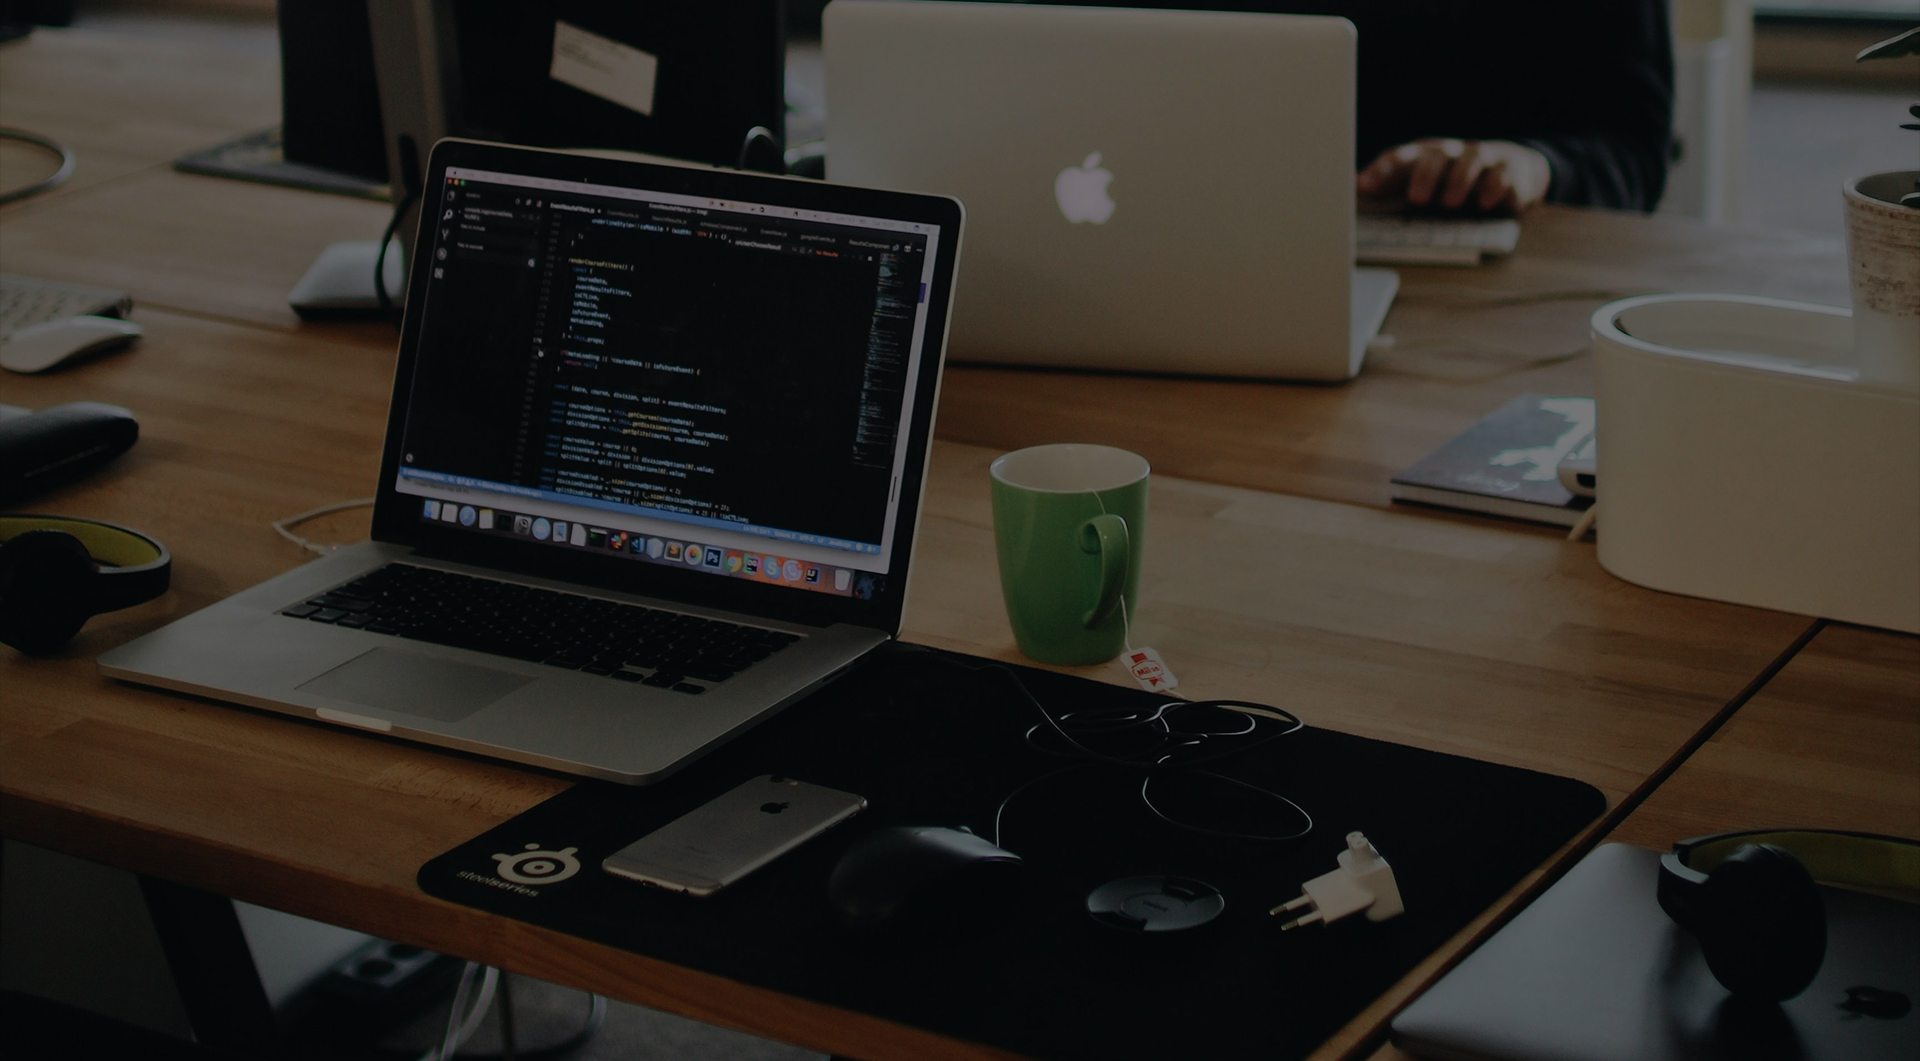
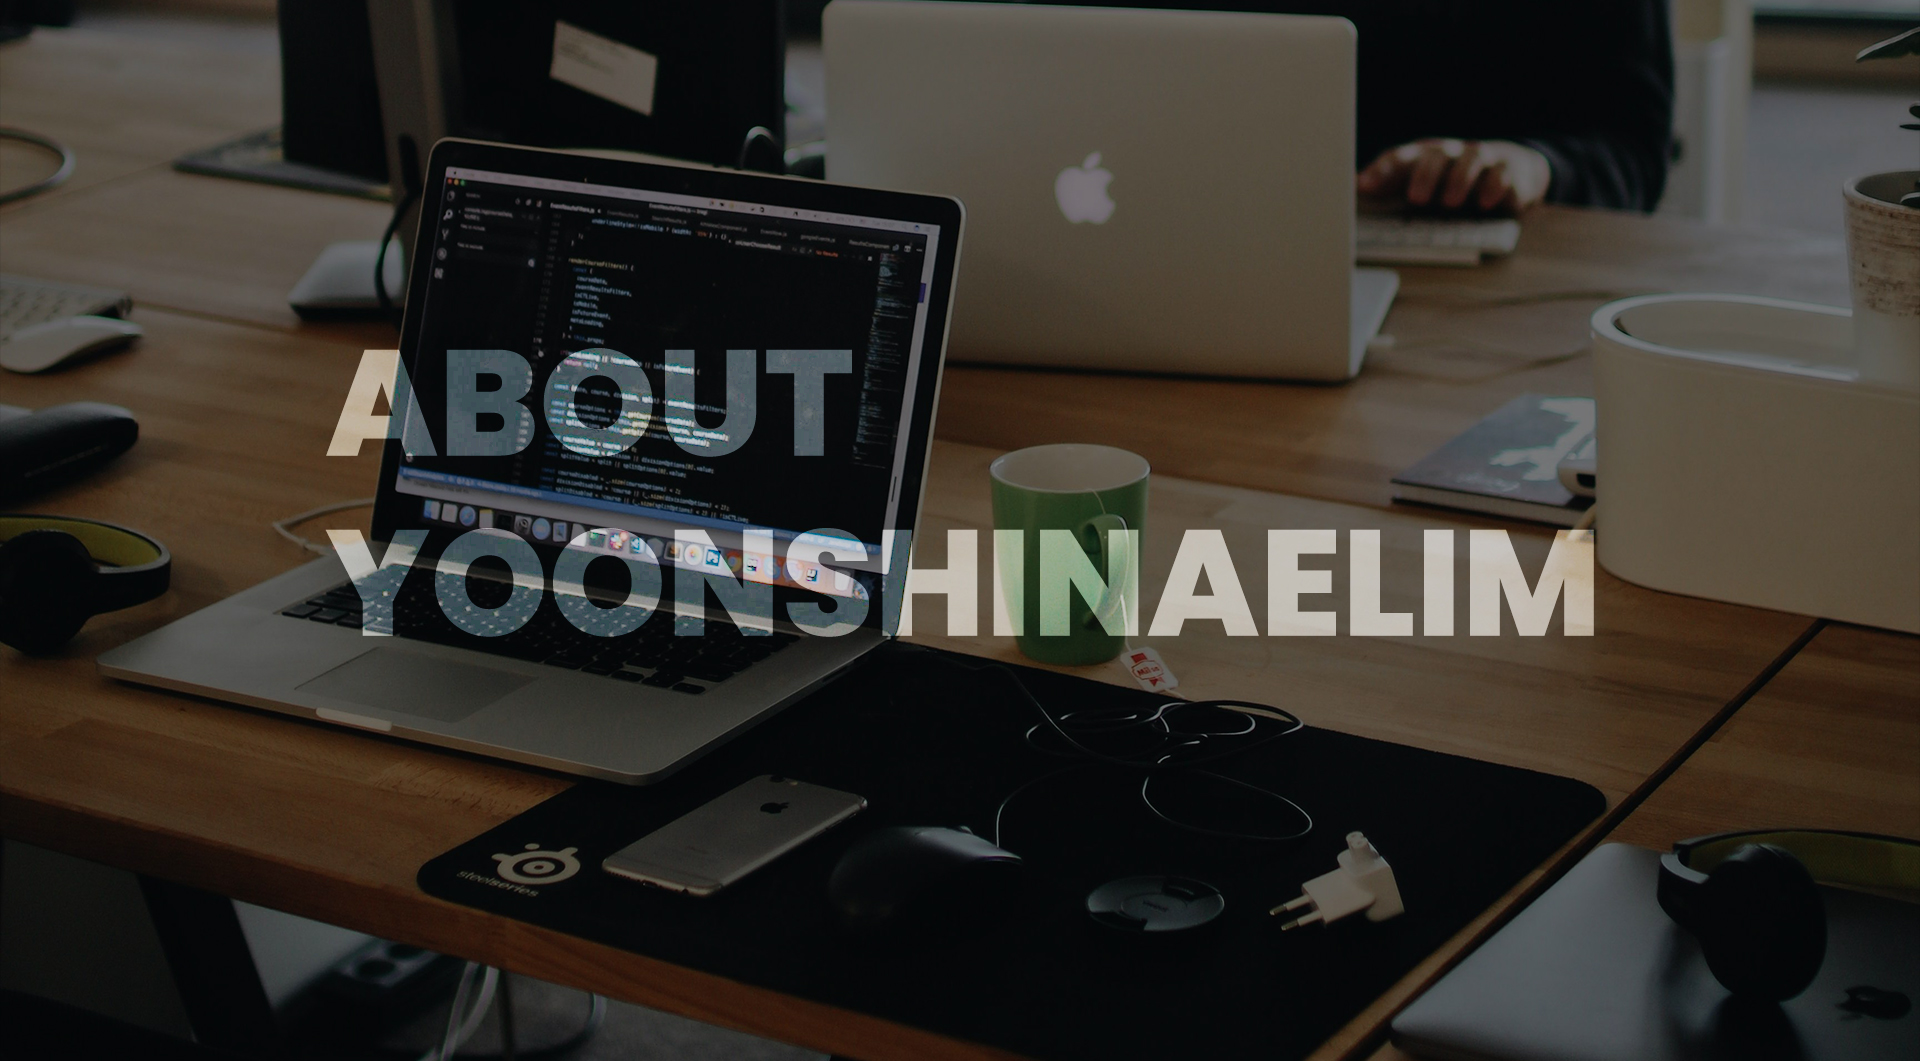
수정

Changed region(s): [[0.1562, 0.4976, 0.8438, 0.6221], [0.1562, 0.311, 0.4375, 0.4354]]

diff --git a/js/common.js b/js/common.js
@@ -1,29 +1,50 @@
-const body = document.querySelector("#body"),
-menuButton = document.querySelector("#menu"),
-menuList = document.querySelector("#menuList"),
-header = document.querySelector("#header");
+if (document.querySelector("#wrap").classList.contains("main")) {
+    const body = document.querySelector("#body"),
+    menuButton = document.querySelector("#menu"),
+    menuList = document.querySelector("#menuList"),
+    header = document.querySelector("#header");
 
-menuButton.addEventListener("click", function(){
-    this.classList.toggle("on");
-    header.classList.toggle("on");
-    menuList.classList.toggle("on");
-    body.classList.toggle("hidden");
-});
-//main list
-function scrollRealStart(){
-    ScrollReveal().reveal("#mainList li", {reset:false, delay :10, distance: '50px', opacity:.5});
-}
-scrollRealStart();
-
-//load scroll top 0
-window.onbeforeunload = function(){
-    window.scrollTo(0, 0);
-};
-
-//scroll event
-window.addEventListener("scroll", function(){
-    let scrollY = this.scrollY;
-    if(scrollY == 0){
-        scrollRealStart();
+    menuButton.addEventListener("click", function(){
+        this.classList.toggle("on");
+        header.classList.toggle("on");
+        menuList.classList.toggle("on");
+        body.classList.toggle("hidden");
+    });
+    //main list
+    function scrollRealStart(){
+        ScrollReveal().reveal("#mainList li", {reset:false, delay :10, distance: '50px', opacity:.5});
     }
-});
+    scrollRealStart();
+
+    //load scroll top 0
+    window.onbeforeunload = function(){
+        window.scrollTo(0, 0);
+    };
+
+    //scroll event
+    window.addEventListener("scroll", function(){
+        let scrollY = this.scrollY;
+        if(scrollY == 0){
+            scrollRealStart();
+        }
+    });
+}else if (document.querySelector("#wrap").classList.contains("about")) {
+    //about
+    gsap.registerPlugin(ScrollTrigger);
+    gsap.utils.toArray(".section_box").forEach((box) => {
+        gsap.to(box, {
+            opacity: 1,
+            y: 0,
+            duration: 1.2,
+            ease: "power2.out",
+            scrollTrigger: {
+                trigger: box,
+                start: "top 80%", // 화면의 80% 지점에서 시작
+                toggleActions: "play none none reverse"
+            }
+        });
+    });
+}
+
+
+

diff --git a/css/common.css b/css/common.css
@@ -4,7 +4,7 @@
 /* common */
 *{margin:0;padding:0;color:#000;}
 html, body{margin:0;padding:0;font-size:16px;width:100%;height:100%;}
-body{font-family:Poppins, "Noto Serif KR";color:#000;-webkit-user-select:none;-moz-user-select:none; -ms-user-select:none; user-select:none;}
+body{font-family:Poppins,'NotoSerifKR';color:#000;-webkit-user-select:none;-moz-user-select:none; -ms-user-select:none; user-select:none;}
 ul,li{list-style:none;}
 a{text-decoration:none;color:#000;}
 
@@ -38,10 +38,24 @@ a{text-decoration:none;color:#000;}
 #menuList.on {display:block;}
 
 /* main */
-#container{padding:150px 0;}
-#container .list{display:flex;flex-wrap:wrap; margin:0 auto;padding:0;border-radius:8px;width:1360px;}
+#container .list{padding:150px 0;display:flex;flex-wrap:wrap; margin:0 auto;border-radius:8px;width:1360px;}
 #container .list li{width:33.33%;}
 #container .list li .btn{display:block;height:600px;margin:1rem;background:#000;color:#fff;text-align:center;border-radius:50px;}
 
+
+/* about */
+.btn_closed{position:fixed;top:30px;right:40px;font-size:0;width:40px;height:25px;}
+.btn_closed:before{content:'';display:block;width:45px;height:7px;background:#000;position:absolute;inset-block-start:50%;transform:translate3d(0, -50%, 0) rotate(45deg);background:#fff;}
+.btn_closed:after{content:'';display:block;width:45px;height:7px;background:#000;position:absolute;inset-block-start:50%;transform:translate3d(0, -50%, 0) rotate(-45deg);background:#fff;}
+
+.title_box {width:100%;height:1060px;background:url('/img/about/bg_about.jpg') top center no-repeat fixed;}
+.title_box .title{font-size:0;}
+
+.section_wrap{width:1360px;margin:0 auto;padding:135px 0;}
+.section_wrap > *{font-family:'NotoSerifKR';font-weight:500;}
+.section{position:relative;}
+.section.box1{padding:250px 0 0;}
+.section.box1 .txt{font-size:30px;display:inline-block;line-height:50px;letter-spacing:-0.05em;}
+.section.box1 .bg{width:645px;height:641px;background:url('/img/about/bg_circle.png') no-repeat 0 0;position:absolute;right:0;top:0;font-size:0;}
 
 

diff --git a/css/font/stylesheet.css b/css/font/stylesheet.css
@@ -8,7 +8,7 @@
 }
 
 @font-face {
-    font-family: 'Noto Serif KR';
+    font-family: 'NotoSerifKR';
     src: url('NotoSerifKR-Light.woff2') format('woff2'),
         url('NotoSerifKR-Light.woff') format('woff');
     font-weight: 300;
@@ -17,7 +17,7 @@
 }
 
 @font-face {
-    font-family: 'Noto Serif KR';
+    font-family: 'NotoSerifKR';
     src: url('NotoSerifKR-Medium.woff2') format('woff2'),
         url('NotoSerifKR-Medium.woff') format('woff');
     font-weight: 500;
@@ -26,7 +26,7 @@
 }
 
 @font-face {
-    font-family: 'Noto Serif KR';
+    font-family: 'NotoSerifKR';
     src: url('NotoSerifKR-Regular.woff2') format('woff2'),
         url('NotoSerifKR-Regular.woff') format('woff');
     font-weight: normal;
@@ -35,7 +35,7 @@
 }
 
 @font-face {
-    font-family: 'Noto Serif KR';
+    font-family: 'NotoSerifKR';
     src: url('NotoSerifKR-ExtraLight.woff2') format('woff2'),
         url('NotoSerifKR-ExtraLight.woff') format('woff');
     font-weight: 200;
@@ -44,25 +44,25 @@
 }
 
 @font-face {
-    font-family: 'Noto Serif KR';
+    font-family: 'NotoSerifKR';
     src: url('NotoSerifKR-ExtraBold.woff2') format('woff2'),
         url('NotoSerifKR-ExtraBold.woff') format('woff');
-    font-weight: bold;
+    font-weight: 800;
     font-style: normal;
     font-display: swap;
 }
 
 @font-face {
-    font-family: 'Noto Serif KR';
+    font-family: 'NotoSerifKR';
     src: url('NotoSerifKR-Bold.woff2') format('woff2'),
         url('NotoSerifKR-Bold.woff') format('woff');
-    font-weight: bold;
+    font-weight: 700;
     font-style: normal;
     font-display: swap;
 }
 
 @font-face {
-    font-family: 'Noto Serif KR';
+    font-family: 'NotoSerifKR';
     src: url('NotoSerifKR-Black.woff2') format('woff2'),
         url('NotoSerifKR-Black.woff') format('woff');
     font-weight: 900;

diff --git a/about.html b/about.html
@@ -1,0 +1,38 @@
+<!DOCTYPE html> 
+<html lang="ko"> 
+<head> 
+<meta charset="UTF-8"> 
+<meta http-equiv="X-UA-Compatible" content="IE=Edge" /> 
+<meta name="viewport" content="width=device-width, initial-scale=1.0, maximum-scale=1.0, minimum-scale=1.0, user-scalable=no">
+<meta name="format-detection" content="telephone=no,email=no,address=no">
+<title>YOON</title> 
+<link rel="icon" href="img/main/favicon.ico" />
+<link rel="stylesheet" href="css/common.css" />
+<link rel="stylesheet" href="css/media.css" />
+<script src="js/gsap.min.js"></script>
+<script src="js/ScrollTrigger.min.js"></script>
+</head>
+<body id="body">
+<div id="wrap" class="about">
+    <a href="/" class="btn_closed">닫기 버튼</a>
+    <div id="container">
+        <div class="title_box"><h1 class="title">about<br />yoonshinaelim</h1></div>
+        <div class="section_wrap">
+                <div class="section box1">
+                <p class="txt">저는<br/>
+                2012년부터 7년동안 다양한 프로젝트를 통해<br/>
+                웹퍼블리셔로서의 전문성과 역량을 키워온 <br/>
+                웹 퍼블리셔 윤신애림입니다.<br/><br/>
+                
+                HTML, CSS, JAVASCRIPT 를 바탕으로 효율적인<br/>
+                웹 환경을 구현해왔습니다.<br/>
+                7년간의 경험은 단순히 웹 페이지를 제작하는 기술을 넘어,<br/>
+                효율적인 협업과 문제 해결 능력을 갖추게 해주었습니다.</p>
+                <div class="bg">이미지</div>
+            </div>
+        </div>
+    </div>
+</div>
+<script src="js/common.js"></script>
+</body>
+</html>

diff --git a/index.html b/index.html
@@ -13,10 +13,10 @@
 <script src="js/scrollreveal.js"></script>
 </head>
 <body id="body">
-<div id="wrap">
+<div id="wrap" class="main">
     <div id="header">
         <div class="logo_wrap">
-            <h1 class="logo"><a href="#none">YOON</a></h1>
+            <h1 class="logo"><a href="/">YOON</a></h1>
             <p class="txt">Web publisher<br />provides visual enjoyment</p>
         </div>
         <a href="#none" id="menu" class="btn_menu">
@@ -25,9 +25,9 @@
     </div>
     <div id="menuList" class="list_menu">
         <ul class="list">
-            <li><a href="#none">about</a></li>
+            <li><a href="/about.html">about</a></li>
             <li><a href="/">experience</a></li>
-            <li><a href="#none">contact</a></li>
+            <li><a href="/contact.html">contact</a></li>
         </ul>
         <p class="copy">© YOON. All rights reserved.</p>
     </div>

diff --git a/contact.html b/contact.html
@@ -1,0 +1,24 @@
+<!DOCTYPE html> 
+<html lang="ko"> 
+<head> 
+<meta charset="UTF-8"> 
+<meta http-equiv="X-UA-Compatible" content="IE=Edge" /> 
+<meta name="viewport" content="width=device-width, initial-scale=1.0, maximum-scale=1.0, minimum-scale=1.0, user-scalable=no">
+<meta name="format-detection" content="telephone=no,email=no,address=no">
+<title>YOON</title> 
+<link rel="icon" href="img/main/favicon.ico" />
+<link rel="stylesheet" href="css/common.css" />
+<link rel="stylesheet" href="css/media.css" />
+<!-- <script src="js/jquery-3.5.1.min.js"></script> -->
+<script src="js/scrollreveal.js"></script>
+</head>
+<body id="body">
+<div id="wrap">
+    <a href="/" class="btn_close">닫기 버튼</a>
+    <div id="container">
+        
+    </div>
+</div>
+<script src="js/common.js"></script>
+</body>
+</html>
